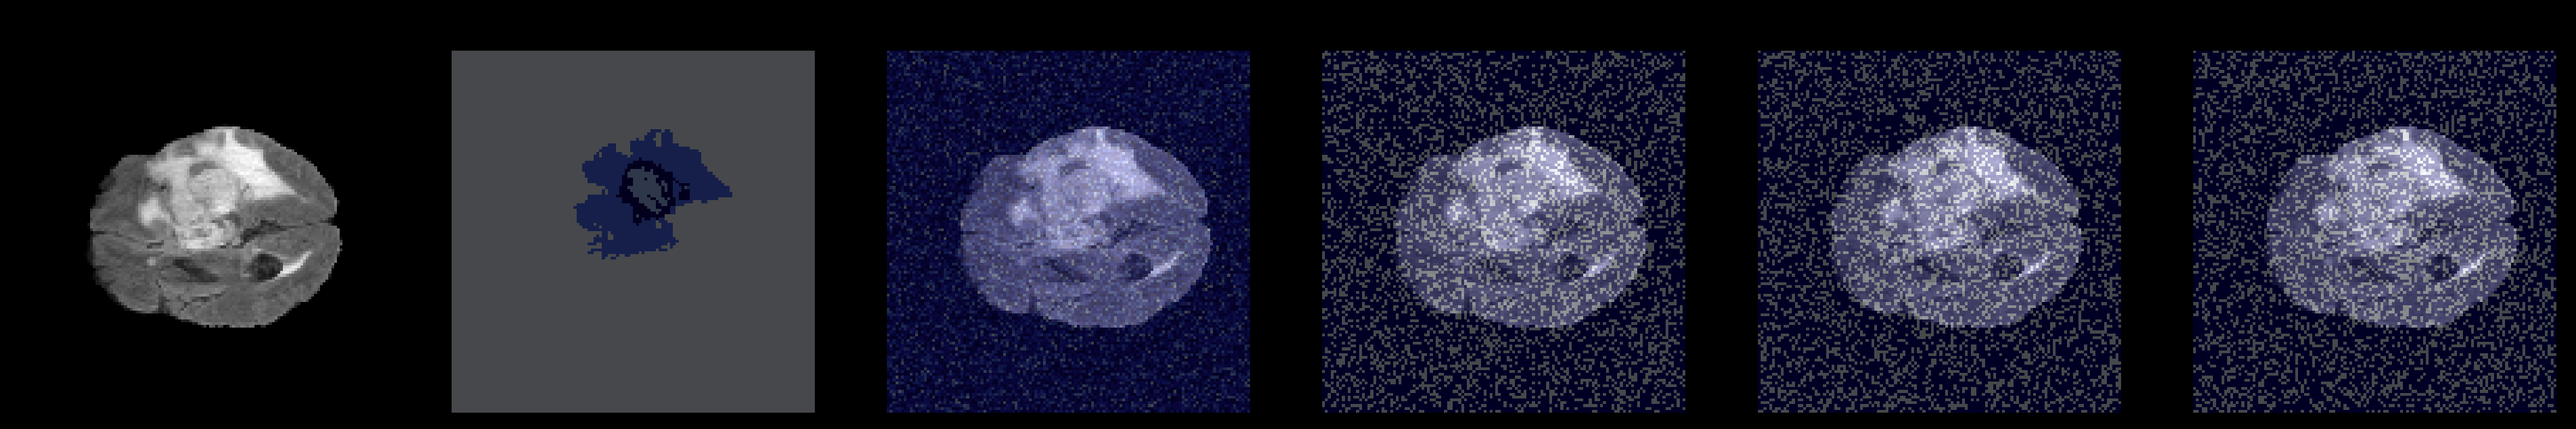
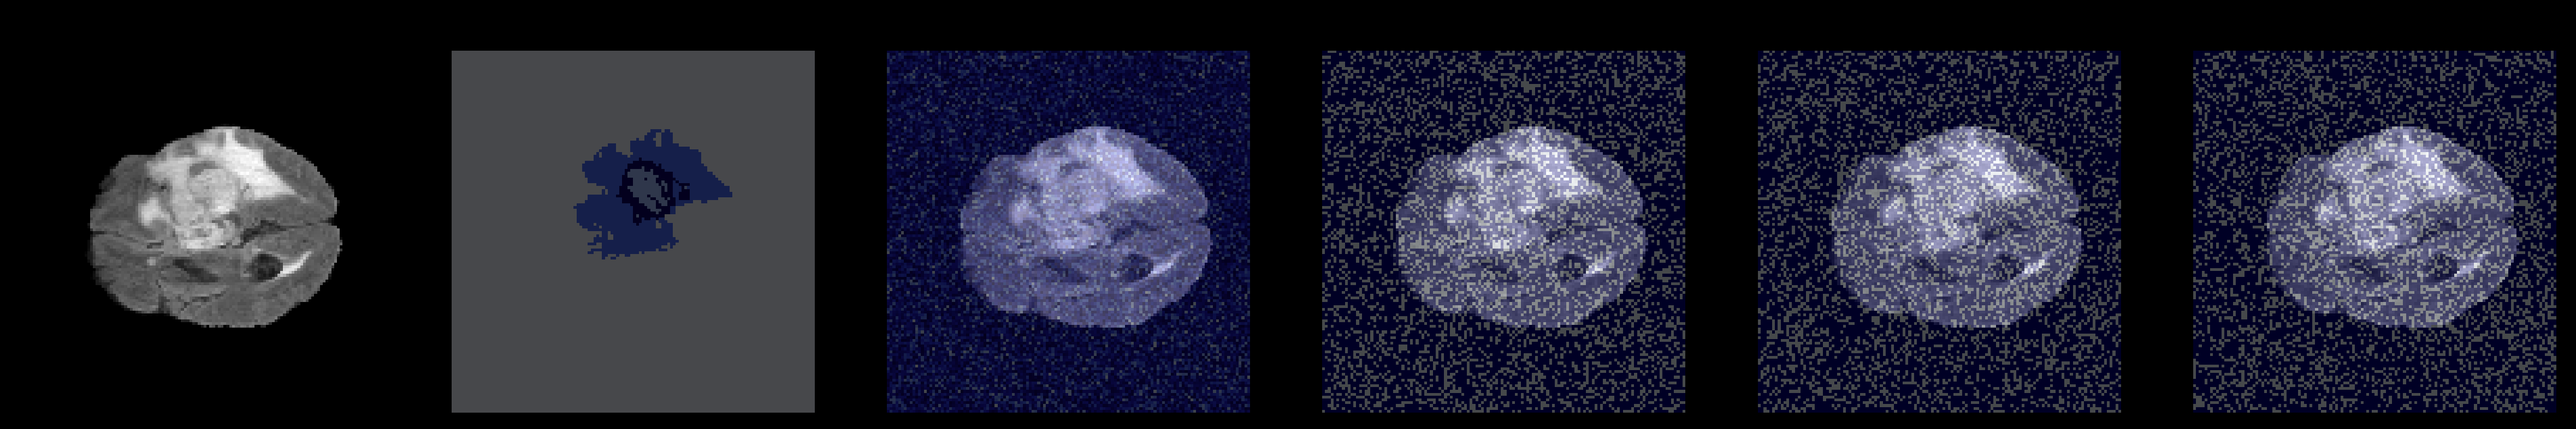
updated

Changed region(s): [[0.6856, 0.122, 0.9972, 0.9759], [0.3428, 0.122, 0.6544, 0.9759]]

diff --git a/seg.py b/seg.py
@@ -1,160 +1,147 @@
-import numpy as np
-import cv2
-import nibabel as nib
+import streamlit as st
+import keras.backend as K
 import keras
+import tensorflow as tf
 import matplotlib.pyplot as plt
-import tkinter as tk
-from tkinter import filedialog, messagebox
+import numpy as np
+import nibabel as nib
+import cv2
+from keras.models import load_model
+import tempfile
 
-# Load the Keras model
-model = keras.models.load_model('model_per_class.h5', compile=False)
+# Define segmentation classes
+SEGMENT_CLASSES = {0: 'NOT tumor', 1: 'NECROTIC/CORE', 2: 'EDEMA', 3: 'ENHANCING'}
+IMG_SIZE = 128
+VOLUME_SLICES = 100
+VOLUME_START_AT = 22
 
-# Constants
-IMG_SIZE = 128  # Example value, adjust as needed
-SEGMENT_CLASSES = ['Background', 'Edema', 'Non-enhancing tumor', 'Enhancing tumor']  # Example classes
+# Define model path
+MODEL_PATH = 'model_per_class.h5'
 
-# Function to load an MRI image
-def imageLoader(path):
-    image = nib.load(path).get_fdata()
-    return image  # Return the raw data without resizing
+# Dice coefficient functions
+def dice_coef(y_true, y_pred, smooth=1.0):
+    total_loss = 0
+    for i in range(4):
+        y_true_f = K.flatten(y_true[:,:,:,i])
+        y_pred_f = K.flatten(y_pred[:,:,:,i])
+        intersection = K.sum(y_true_f * y_pred_f)
+        loss = (2. * intersection + smooth) / (K.sum(y_true_f) + K.sum(y_pred_f) + smooth)
+        total_loss += loss
+    return total_loss / 4
 
-# Function to normalize image data
-def normalize_image(image):
-    image_min = np.min(image)
-    image_max = np.max(image)
-    return (image - image_min) / (image_max - image_min)  # Normalize to [0, 1]
+# Additional metrics functions
+def precision(y_true, y_pred):
+    true_positives = K.sum(K.round(K.clip(y_true * y_pred, 0, 1)))
+    predicted_positives = K.sum(K.round(K.clip(y_pred, 0, 1)))
+    return true_positives / (predicted_positives + K.epsilon())
 
-# Function to show predictions by ID
-def showPredictsById(flair_path, seg_path, start_slice=70):
-    gt = nib.load(seg_path).get_fdata()
-    origImage = imageLoader(flair_path)
+def sensitivity(y_true, y_pred):
+    true_positives = K.sum(K.round(K.clip(y_true * y_pred, 0, 1)))
+    possible_positives = K.sum(K.round(K.clip(y_true, 0, 1)))
+    return true_positives / (possible_positives + K.epsilon())
 
-    # Simulate predictions (replace this with actual model predictions)
-    p = np.random.rand(1, IMG_SIZE, IMG_SIZE, 4)  # Replace with actual prediction logic
+# Load the pre-trained model
+model = load_model(
+    MODEL_PATH,
+    custom_objects={"dice_coef": dice_coef, "precision": precision, "sensitivity": sensitivity},
+    compile=False
+)
 
-    # Get predictions for core, edema, and enhancing tumor
-    core = p[0, :, :, 1]
-    edema = p[0, :, :, 2]
-    enhancing = p[0, :, :, 3]
+# Prediction function
+def predict_images(flair_file, t1ce_file):
+    with tempfile.NamedTemporaryFile(delete=False, suffix=".nii") as tmp_flair:
+        tmp_flair.write(flair_file.getvalue())
+        flair_path = tmp_flair.name
 
-    # Apply thresholding to create binary masks for better visualization
-    core_binary = (core > 0.3).astype(np.float32)
-    edema_binary = (edema > 0.3).astype(np.float32)
-    enhancing_binary = (enhancing > 0.3).astype(np.float32)
+    with tempfile.NamedTemporaryFile(delete=False, suffix=".nii") as tmp_t1ce:
+        tmp_t1ce.write(t1ce_file.getvalue())
+        t1ce_path = tmp_t1ce.name
 
-    # Resize ground truth for consistent display
-    gt_resized = cv2.resize(gt[:, :, start_slice], (IMG_SIZE, IMG_SIZE), interpolation=cv2.INTER_NEAREST)
-
-    # Normalize and prepare the original image
-    origImage_normalized = normalize_image(origImage[:, :, start_slice])
-    origImage_resized = cv2.resize(origImage_normalized, (IMG_SIZE, IMG_SIZE), interpolation=cv2.INTER_LINEAR)
-
-    # Create a figure for displaying images
-    plt.figure(figsize=(20, 10))
-    f, axarr = plt.subplots(1, 6, figsize=(20, 10))
-
-    # Set background color to dark
-    f.patch.set_facecolor('black')
+    # Load the images
+    flair = nib.load(flair_path).get_fdata()
+    t1ce = nib.load(t1ce_path).get_fdata()
     
-    # Original Image
-    axarr[0].imshow(origImage_resized, cmap="gray")
-    axarr[0].title.set_text('Original image (Flair)')
-    axarr[0].axis('off')  # Hide axes
-    axarr[0].set_facecolor('white')
+    # Prepare data for prediction
+    X = np.empty((VOLUME_SLICES, IMG_SIZE, IMG_SIZE, 2))
+    for i in range(VOLUME_SLICES):
+        X[i, :, :, 0] = cv2.resize(flair[:, :, i + VOLUME_START_AT], (IMG_SIZE, IMG_SIZE))
+        X[i, :, :, 1] = cv2.resize(t1ce[:, :, i + VOLUME_START_AT], (IMG_SIZE, IMG_SIZE))
+    
+    # Get predictions
+    predictions = model.predict(X / np.max(X), verbose=1)
+    return predictions, flair_path
 
-    # Ground Truth
-    axarr[1].imshow(gt_resized, cmap="Reds", interpolation='none', alpha=0.3)
-    axarr[1].title.set_text('Ground Truth')
-    axarr[1].axis('off')
-    axarr[1].set_facecolor('black')
+# # Display function
+# def display_predictions(predictions, flair_path, start_slice=70):
+#     orig_image = nib.load(flair_path).get_fdata()
+#     core, edema, enhancing = predictions[:, :, :, 1], predictions[:, :, :, 2], predictions[:, :, :, 3]
 
-    # All Classes Overlay
-    axarr[2].imshow(origImage_resized, cmap="gray", interpolation='none')
-    axarr[2].imshow(p[0, :, :, 1:4].max(axis=2), cmap="Reds", interpolation='none', alpha=0.3)
-    axarr[2].title.set_text('All Classes')
-    axarr[2].axis('off')
-    axarr[2].set_facecolor('black')
+#     fig, axarr = plt.subplots(1, 4, figsize=(20, 10))
+#     axarr[0].imshow(cv2.resize(orig_image[:, :, start_slice + VOLUME_START_AT], (IMG_SIZE, IMG_SIZE)), cmap="gray")
+#     axarr[0].set_title('Original Flair')
+    
+#     for i, (title, img) in enumerate(zip(['Necrotic/Core', 'Edema', 'Enhancing'], [core, edema, enhancing])):
+#         axarr[i + 1].imshow(img[start_slice, :, :], cmap="gray", alpha=0.5)
+#         axarr[i + 1].set_title(title)
+    
+#     st.pyplot(fig)
 
-    # Edema Prediction as solid color
-    axarr[3].imshow(origImage_resized, cmap="gray", interpolation='none')
-    axarr[3].imshow(edema_binary, cmap="OrRd", interpolation='none', alpha=0.3)  # Solid color
-    axarr[3].title.set_text(f'{SEGMENT_CLASSES[1]} Predicted')
-    axarr[3].axis('off')
-    axarr[3].set_facecolor('black')
+# # Streamlit Interface
+# st.title("MRI Tumor Segmentation")
+# flair_file = st.file_uploader("Upload FLAIR Image (.nii)", type="nii")
+# t1ce_file = st.file_uploader("Upload T1CE Image (.nii)", type="nii")
 
-    # Core Prediction as solid color
-    axarr[4].imshow(origImage_resized, cmap="gray", interpolation='none')
-    axarr[4].imshow(core_binary, cmap="OrRd", interpolation='none', alpha=0.3)  # Solid color
-    axarr[4].title.set_text(f'{SEGMENT_CLASSES[2]} Predicted')
-    axarr[4].axis('off')
-    axarr[4].set_facecolor('black')
+# if flair_file and t1ce_file:
+#     with st.spinner("Predicting..."):
+#         predictions, flair_path = predict_images(flair_file, t1ce_file)
+#     display_predictions(predictions, flair_path)
 
-    # Enhancing Prediction as solid color
-    axarr[5].imshow(origImage_resized, cmap="gray", interpolation='none')
-    axarr[5].imshow(enhancing_binary, cmap="OrRd", interpolation='none', alpha=0.3)  # Solid color
-    axarr[5].title.set_text(f'{SEGMENT_CLASSES[3]} Predicted')
-    axarr[5].axis('off')
-    axarr[5].set_facecolor('black')
 
-    # Convert the figure to BGR format for OpenCV
-    plt.savefig('temp.png', bbox_inches='tight', dpi=300)
-    img = cv2.imread('temp.png')
-    img_bgr = cv2.cvtColor(img, cv2.COLOR_RGB2BGR)  # Convert to BGR
+def display_predictions(predictions, flair_path, start_slice=70, gt=None):
+    orig_image = nib.load(flair_path).get_fdata()
+    core, edema, enhancing = predictions[:, :, :, 1], predictions[:, :, :, 2], predictions[:, :, :, 3]
+    
+    fig, axarr = plt.subplots(1, 6, figsize=(30, 10))  # Adjust the number of subplots
 
-    # Save the figure instead of displaying it
-    output_path = 'prediction_results.png'  # Specify your output path
-    cv2.imwrite(output_path, img_bgr)  # Save as BGR image
-    plt.close()  # Close the figure to free memory
+    # Original image
+    axarr[0].imshow(cv2.resize(orig_image[:, :, start_slice + VOLUME_START_AT], (IMG_SIZE, IMG_SIZE)), cmap="gray")
+    axarr[0].set_title('Original Flair')
+    
+    if gt is not None:  # If ground truth is available
+        curr_gt = cv2.resize(gt[:, :, start_slice + VOLUME_START_AT], (IMG_SIZE, IMG_SIZE), interpolation=cv2.INTER_NEAREST)
+        axarr[1].imshow(curr_gt, cmap="Reds", alpha=0.3)
+        axarr[1].set_title('Ground Truth')
+    else:
+        axarr[1].imshow(np.zeros((IMG_SIZE, IMG_SIZE)), cmap="gray")  # Placeholder if gt is not provided
+        axarr[1].set_title('Ground Truth Not Provided')
 
-    # Inform the user that the figure has been saved
-    messagebox.showinfo("Info", f"Prediction results saved to {output_path}")
+    # Display all classes (Assuming p contains class predictions)
+    all_classes = np.max(predictions, axis=-1)  # Modify this based on how you want to visualize all classes
+    axarr[2].imshow(all_classes[start_slice, :, :], cmap="Reds", alpha=1)
+    axarr[2].set_title('All Classes')
 
-# GUI setup
-class MRIApp:
-    def __init__(self, master):
-        self.master = master
-        master.title("MRI Prediction GUI")
+    # Edema predicted
+    axarr[3].imshow(edema[start_slice, :, :], cmap="OrRd", alpha=1)
+    axarr[3].set_title(f'{SEGMENT_CLASSES[1]} Predicted')
 
-        self.label_flair = tk.Label(master, text="Select Flair MRI Image:")
-        self.label_flair.pack()
+    # Core predicted
+    axarr[4].imshow(core[start_slice, :, :], cmap="OrRd", alpha=1)
+    axarr[4].set_title(f'{SEGMENT_CLASSES[2]} Predicted')
 
-        self.flair_button = tk.Button(master, text="Select Flair Image", command=self.load_flair_image)
-        self.flair_button.pack()
+    # Enhancing predicted
+    axarr[5].imshow(enhancing[start_slice, :, :], cmap="OrRd", alpha=1)
+    axarr[5].set_title(f'{SEGMENT_CLASSES[3]} Predicted')
 
-        self.label_seg = tk.Label(master, text="Select Segmentation Image:")
-        self.label_seg.pack()
+    # Optional: Hide axes
+    for ax in axarr:
+        ax.axis('off')
 
-        self.seg_button = tk.Button(master, text="Select Segmentation Image", command=self.load_seg_image)
-        self.seg_button.pack()
-
-        self.start_slice_label = tk.Label(master, text="Enter Start Slice (0):")
-        self.start_slice_label.pack()
-
-        self.start_slice_entry = tk.Entry(master)
-        self.start_slice_entry.insert(0, "0")
-        self.start_slice_entry.pack()
-
-        self.predict_button = tk.Button(master, text="Show Predictions", command=self.show_predictions)
-        self.predict_button.pack()
-
-    def load_flair_image(self):
-        self.flair_path = filedialog.askopenfilename(filetypes=[("NIfTI Files", "*.nii")])
-        if not self.flair_path:
-            messagebox.showwarning("Warning", "No file selected for Flair image.")
-
-    def load_seg_image(self):
-        self.seg_path = filedialog.askopenfilename(filetypes=[("NIfTI Files", "*.nii")])
-        if not self.seg_path:
-            messagebox.showwarning("Warning", "No file selected for Segmentation image.")
-
-    def show_predictions(self):
-        start_slice = int(self.start_slice_entry.get())
-        try:
-            showPredictsById(self.flair_path, self.seg_path, start_slice)
-        except Exception as e:
-            messagebox.showerror("Error", str(e))
-
-# Run the GUI
-root = tk.Tk()
-app = MRIApp(root)
-root.mainloop()
+    st.pyplot(fig)
+flair_file = st.file_uploader("Upload FLAIR Image (.nii)", type="nii")
+t1ce_file = st.file_uploader("Upload T1CE Image (.nii)", type="nii")
+# Make sure to call display_predictions with the correct parameters
+if flair_file and t1ce_file:
+    with st.spinner("Predicting..."):
+        predictions, flair_path = predict_images(flair_file, t1ce_file)
+        gt = None  # Replace with actual ground truth if available
+    display_predictions(predictions, flair_path, gt=gt)  # Pass the ground truth if available
